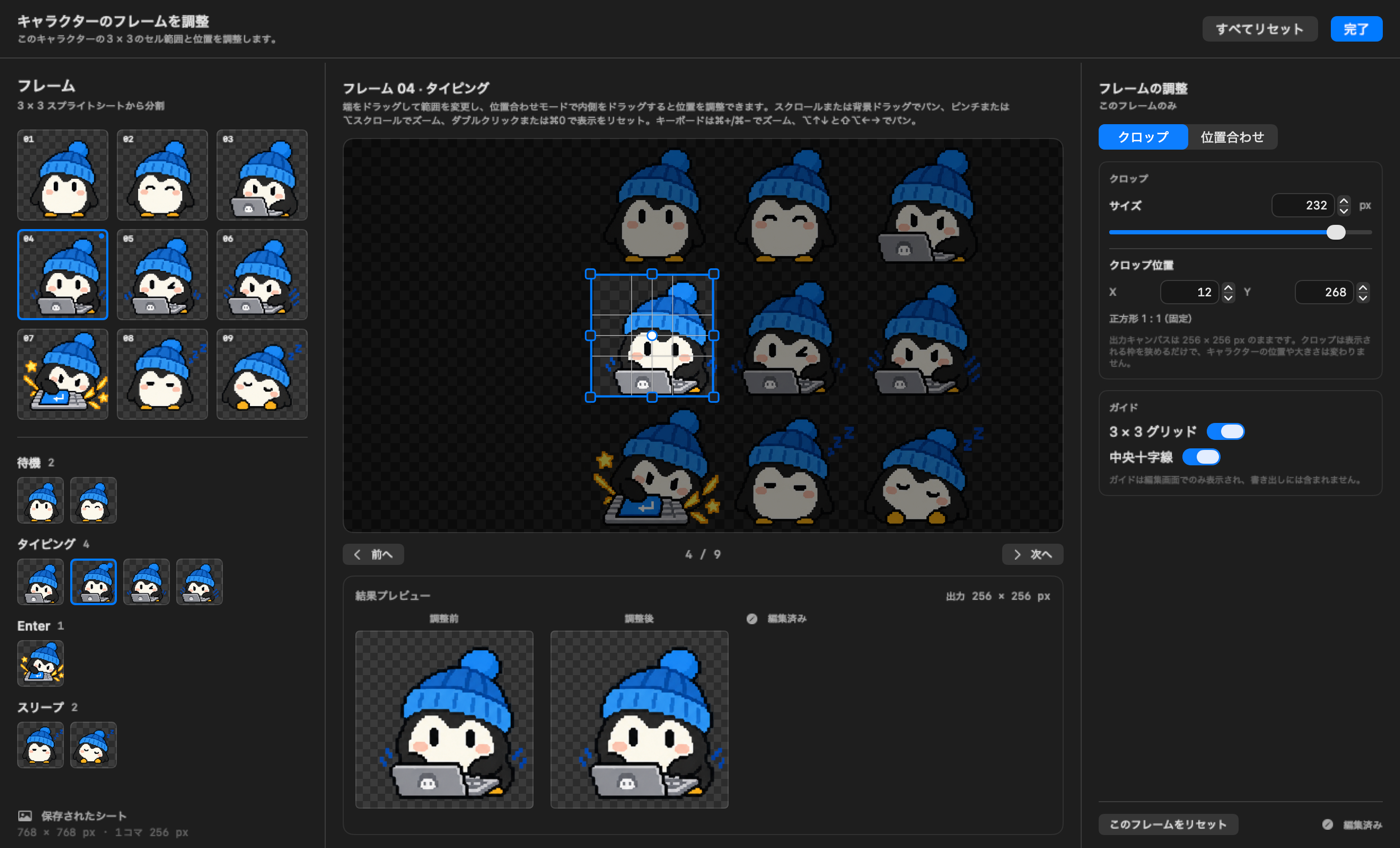
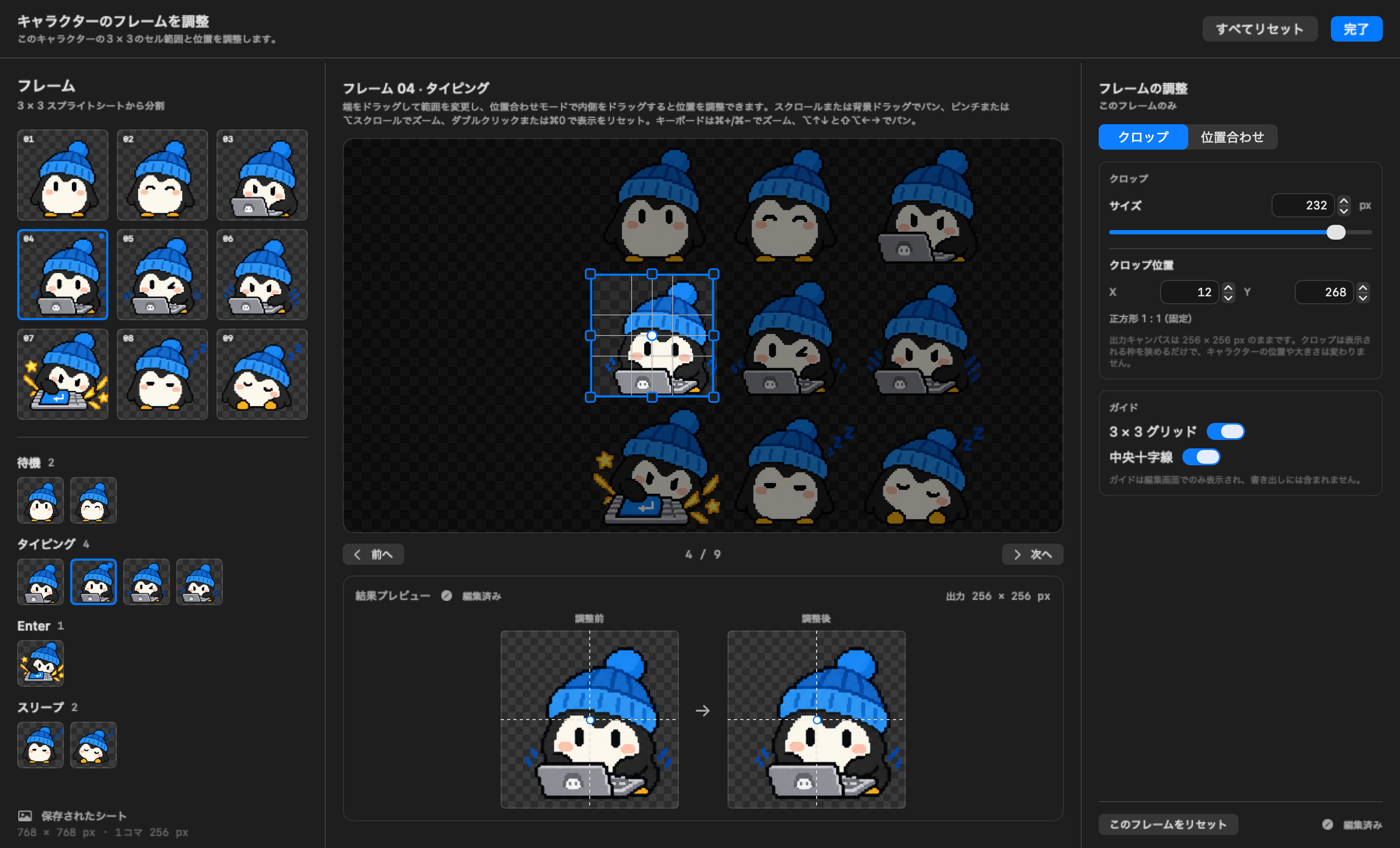
feat(character): centre Before/After previews and show the alignment crosshair (#151)
- Centre the preview pair in the result panel instead of left-aligning it.
- Connect Before and After with a right arrow to make the staged transition
  explicit.
- Move the neighbour warning and edited badge into the panel header so they no
  longer offset the preview pair.
- Overlay the canvas center crosshair (dashed guides plus the accent center ring)
  on both preview cards, since alignment is the primary edit.
- Refresh the captures.

Verified: format, localization check, SwiftLint strict, safety, complexity,
195 app tests, Release build.

Changed region(s): [[0.2457, 0.6745, 0.645, 0.9505], [0.3993, 0.7052, 0.4607, 0.7358]]

diff --git a/Sources/WaddlyApp/FrameEditorCenterColumn.swift b/Sources/WaddlyApp/FrameEditorCenterColumn.swift
@@ -138,11 +138,30 @@ private struct FrameEditorResultPreview: View {
     var body: some View {
         let localization = model.localization
         VStack(alignment: .leading, spacing: 8) {
-            HStack {
+            HStack(spacing: 8) {
                 Text(localization.string(for: .frameEditorResultPreview))
                     .font(.system(size: 11, weight: .semibold))
                     .foregroundStyle(.secondary)
-                Spacer()
+                if model.cropExtendsIntoNeighbor {
+                    Label(
+                        localization.string(for: .frameEditorCropNeighborWarning),
+                        systemImage: "exclamationmark.triangle.fill"
+                    )
+                    .font(.caption2)
+                    .foregroundStyle(.orange)
+                    .lineLimit(1)
+                    .help(localization.string(for: .frameEditorCropNeighborWarning))
+                }
+                if model.isCurrentFrameEdited {
+                    Label(
+                        localization.string(for: .frameEditorEdited),
+                        systemImage: "pencil.circle.fill"
+                    )
+                    .font(.caption2)
+                    .foregroundStyle(.secondary)
+                    .lineLimit(1)
+                }
+                Spacer(minLength: 8)
                 Text(String(
                     format: localization.string(for: .frameEditorOutputSizeFormat),
                     model.outputSide,
@@ -151,39 +170,25 @@ private struct FrameEditorResultPreview: View {
                 .font(.system(size: 10, weight: .medium, design: .monospaced))
                 .foregroundStyle(.secondary)
             }
-            HStack(alignment: .top, spacing: 16) {
+            HStack(alignment: .center, spacing: 14) {
+                Spacer(minLength: 0)
                 FrameEditorPreviewCard(
                     title: localization.string(for: .frameEditorBefore),
                     image: model.beforeImage(for: model.selectedSlot),
                     accessibilityLabel: localization.string(for: .frameEditorBeforeA11y)
                 )
+                Image(systemName: "arrow.right")
+                    .font(.system(size: 14, weight: .semibold))
+                    .foregroundStyle(.secondary)
+                    .accessibilityHidden(true)
                 FrameEditorPreviewCard(
                     title: localization.string(for: .frameEditorAfter),
                     image: model.afterImage(for: model.selectedSlot),
                     accessibilityLabel: localization.string(for: .frameEditorAfterA11y)
                 )
-                VStack(alignment: .leading, spacing: 7) {
-                    if model.cropExtendsIntoNeighbor {
-                        Label(
-                            localization.string(for: .frameEditorCropNeighborWarning),
-                            systemImage: "exclamationmark.triangle.fill"
-                        )
-                        .font(.caption2)
-                        .foregroundStyle(.orange)
-                        .fixedSize(horizontal: false, vertical: true)
-                    }
-                    if model.isCurrentFrameEdited {
-                        Label(
-                            localization.string(for: .frameEditorEdited),
-                            systemImage: "pencil.circle.fill"
-                        )
-                        .font(.caption2)
-                        .foregroundStyle(.secondary)
-                    }
-                    Spacer(minLength: 0)
-                }
-                .frame(maxWidth: .infinity, alignment: .leading)
+                Spacer(minLength: 0)
             }
+            .frame(maxWidth: .infinity)
         }
         .padding(12)
         .frame(maxWidth: .infinity, alignment: .leading)
@@ -219,6 +224,7 @@ private struct FrameEditorPreviewCard: View {
                             .resizable()
                             .interpolation(.none)
                             .scaledToFit()
+                        FrameEditorPreviewCrosshair()
                     }
                     .frame(width: Self.cardSide, height: Self.cardSide)
                     .clipShape(RoundedRectangle(cornerRadius: 4))
@@ -232,5 +238,34 @@ private struct FrameEditorPreviewCard: View {
         }
         .accessibilityElement(children: .ignore)
         .accessibilityLabel(accessibilityLabel)
+    }
+}
+
+/// Center crosshair overlay for the Before/After cards, mirroring the canvas guides so the
+/// alignment anchor is visible while comparing.
+@MainActor
+private struct FrameEditorPreviewCrosshair: View {
+    var body: some View {
+        GeometryReader { proxy in
+            let center = CGPoint(x: proxy.size.width / 2, y: proxy.size.height / 2)
+            Path { path in
+                path.move(to: CGPoint(x: center.x, y: 0))
+                path.addLine(to: CGPoint(x: center.x, y: proxy.size.height))
+                path.move(to: CGPoint(x: 0, y: center.y))
+                path.addLine(to: CGPoint(x: proxy.size.width, y: center.y))
+            }
+            .stroke(
+                Color.white.opacity(0.75),
+                style: StrokeStyle(lineWidth: 1, dash: [3, 3])
+            )
+            .shadow(color: .black.opacity(0.6), radius: 0.5)
+            Circle()
+                .fill(Color.white)
+                .frame(width: 7, height: 7)
+                .overlay(Circle().stroke(Color.accentColor, lineWidth: 1.2))
+                .position(center)
+        }
+        .allowsHitTesting(false)
+        .accessibilityHidden(true)
     }
 }
